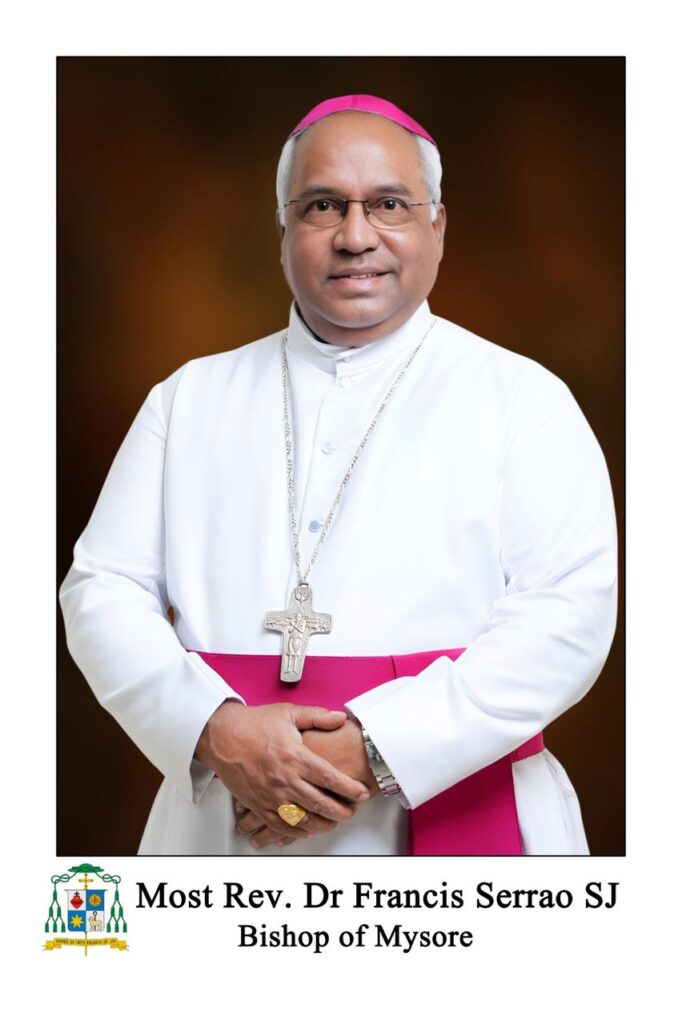
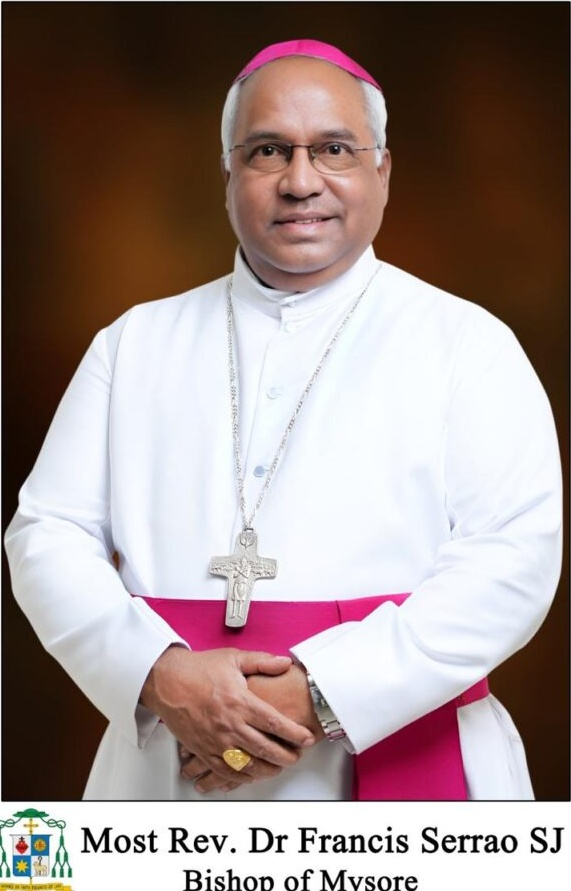
fix(leadership): update leadership card to Most Rev. Dr. Francis Serrao, S.J. and align portrait framing

diff --git a/src/data/collegeOfficialData.js b/src/data/collegeOfficialData.js
@@ -10,15 +10,15 @@ export const collegeOfficialData = {
   },
   "currentLeadership": [
     {
-      "id": "sec-mdes",
-      "name": "Rev. Fr. Edward William Saldanha",
-      "designation": "Secretary of MDES",
+      "id": "president-mdes",
+      "name": "Most Rev. Dr. Francis Serrao, S.J.",
+      "designation": "Bishop of Mysore Diocese & President, MDES",
       "role": "Management",
-      "imageUrl": "/media/gallery/picture-gallery/athletic_day_2026.jpg",
-      "localPath": "public/assets/images/leadership/edward-william-saldanha.jpg",
-      "assetPath": "/assets/images/leadership/edward-william-saldanha.jpg",
+      "imageUrl": "/assets/images/leadership/bishop_francis_serrao.jpg",
+      "localPath": "public/assets/images/leadership/bishop_francis_serrao.jpg",
+      "assetPath": "/assets/images/leadership/bishop_francis_serrao.jpg",
       "source": "https://stphilos.ac.in/administration/",
-      "biography": "Secretary of the Mysore Diocesan Educational Society (MDES), providing executive leadership across diocesan institutions."
+      "biography": "Bishop of the Mysore Diocese and President of the Mysore Diocesan Educational Society (MDES), providing spiritual and institutional leadership across diocesan institutions."
     },
     {
       "id": "rector",

diff --git a/src/pages/AboutPage.jsx b/src/pages/AboutPage.jsx
@@ -715,8 +715,8 @@ export default function AboutPage() {
               {aboutData.administration.map((person, idx) => {
                 // Determine custom object-position to preserve full head and face for portrait photos
                 const objectPosition = 
-                  person.id === 'sec-mdes' || person.name.toLowerCase().includes('edward')
-                    ? '50% 0%'
+                  person.id === 'president-mdes' || person.id === 'bishop-president' || person.name.toLowerCase().includes('francis')
+                    ? '50% 12%'
                     : person.id === 'rector' || person.name.toLowerCase().includes('lourdu')
                     ? '50% 12%'
                     : person.id === 'principal' || person.name.toLowerCase().includes('ravi')
